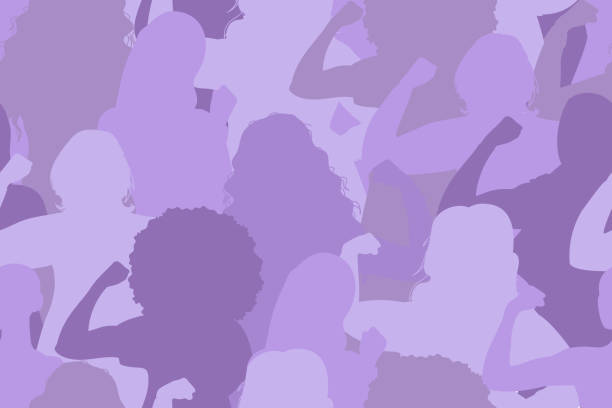
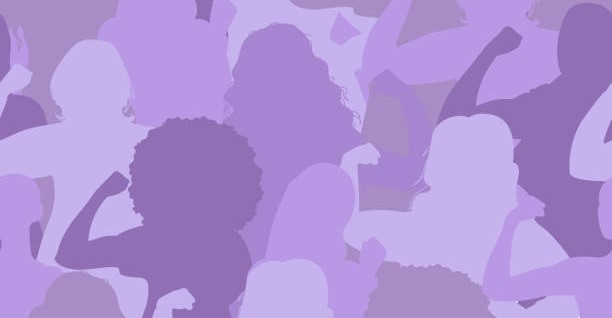
cambios

diff --git a/css/stile.css b/css/stile.css
@@ -1,11 +1,11 @@
 *{
+    font-size: clamp(.0591rem + 3.27vw, 1.5rem);
     box-sizing: border-box;
     margin: 0%;
     padding: 0%;
 }
 
 html{
-    font-size: 90%;
     background-color: #a59d2a;
     margin: 0;
     padding: 0;
@@ -23,6 +23,28 @@ body {
 
 .pagina-especial{
     color: yellow;
+    width: min(90%, 500px);
+    margin: auto;
+    display: flex;
+    flex-direction: column;
+    gap: 1rem;
+}
+
+textarea {
+    width: 100%;
+    height: 100%;
+    padding: 1rem;
+    border: 1px solid #ccc;
+    border-radius: 5px;
+    resize: vertical;
+    box-sizing: border-box;
+    font-size: 12px;
+}
+
+@media (max-width: 600px) {
+    .pagina-especial {
+        width: 95%;
+    }
 }
 
 .icon-woman{
@@ -55,6 +77,7 @@ body {
     display: flex;
     gap: 10px;
 }
+
 .li{
     font-size: 1rem;
     display: flex;
@@ -82,12 +105,12 @@ a:hover {
 }
 
 .personas{
-    box-shadow: 0 4px rgba(0, 0, 0, 0.09);
+    /*box-shadow: 0 4px rgba(0, 0, 0, 0.09);*/
     /*display: block;*/
     /*position: relative;*/
-    max-width: 1500px;
-    margin: 10px auto;
-    padding: 10px;
+    max-width: 150%;
+    margin: 1.5% auto;
+    padding: 1.5%;
     overflow: hidden;
 }
 
@@ -95,7 +118,6 @@ a:hover {
     display: block;
     margin: 0 auto;
     height: auto;
-    display: block;
 }
 
 .logo-img img{
@@ -105,7 +127,7 @@ a:hover {
     object-fit: cover
 }
 
-.container{
+.container-especial{
     display: flex;
     flex-direction: column;
     justify-content: center;
@@ -186,13 +208,14 @@ a:hover {
     background-color: aqua;
     border-radius: 25px 25px 0 0;
     border: solid;
-    height: 125px;
+    height: 1250%;
     width: 100%;
+    /*padding: clamp(1rem, 3vw, 3rem);*/
 }
 
 .footer-contactos {
     text-align: center;
-    font-size: 20px;
+    font-size: 120%;
     line-height: 1.5;
     flex-direction: column;
     list-style:none;
@@ -202,11 +225,11 @@ a:hover {
     grid-column: 2;
     display: flex;
     justify-content: center;
-    gap: 15px;
+    gap: 5%;
     transform: scale(1.15);
 }
 
-.container img {
+.container-especial img {
     animation: float 3s ease-in-out infinite;
 }
 
@@ -218,3 +241,20 @@ a:hover {
         transform: translateY(-20px);
     }
 }
+
+/*.container {
+    display: flex;
+    flex-direction: column;
+    padding: 10px;
+    gap: 10px;
+    
+}*/
+
+/*@media screen and (min-width: 325px) {
+    .container {
+        background: #111;
+        color: white;
+        
+    }
+    
+}*/

diff --git a/te podemos ayudar.html b/te podemos ayudar.html
@@ -18,15 +18,15 @@
         </nav>
     </header>
 
-    <main class="container">
+    <main class="container-especial">
         <img src="imagenes/istockphoto-1818875265-612x612.jpg" alt="">
-        <br><br>
+    
         <h1><i><u>¿Como podemos ayudarte?</u></i></h1>
-        <br>
+    
         <p class="p"><b>En el Centro Integral de Género</b>, estamos comprometidos a brindar apoyo y respaldo a todas las personas que enfrentan situaciones de violencia de género. Nuestro equipo de profesionales capacitados está aquí para ofrecerte la ayuda que necesitas. Ya sea que estés buscando asesoramiento legal, apoyo emocional o recursos para salir de una situación de abuso, estamos aquí para escucharte y acompañarte en cada paso del camino. No estás sola, estamos aquí para ayudarte a encontrar la fuerza y el apoyo que necesitas para superar cualquier desafío relacionado con la violencia de género.</p>
 
     </main>
-    <footer class="footer-contenedor">
+    <footer class="footer-contenedor": container>
 
             <div class="footer-contactos">
                 <ul> 
@@ -46,9 +46,6 @@
             </div>
 
     </footer>
-
-
-    
 
 </body>
 </html>

diff --git a/inicio.html b/inicio.html
@@ -44,7 +44,7 @@
         </div>
 
     </main>
-    <footer class="footer-contenedor">
+    <footer class="footer-contenedor"; container>
 
             <div class="footer-contactos">
                 <ul> 